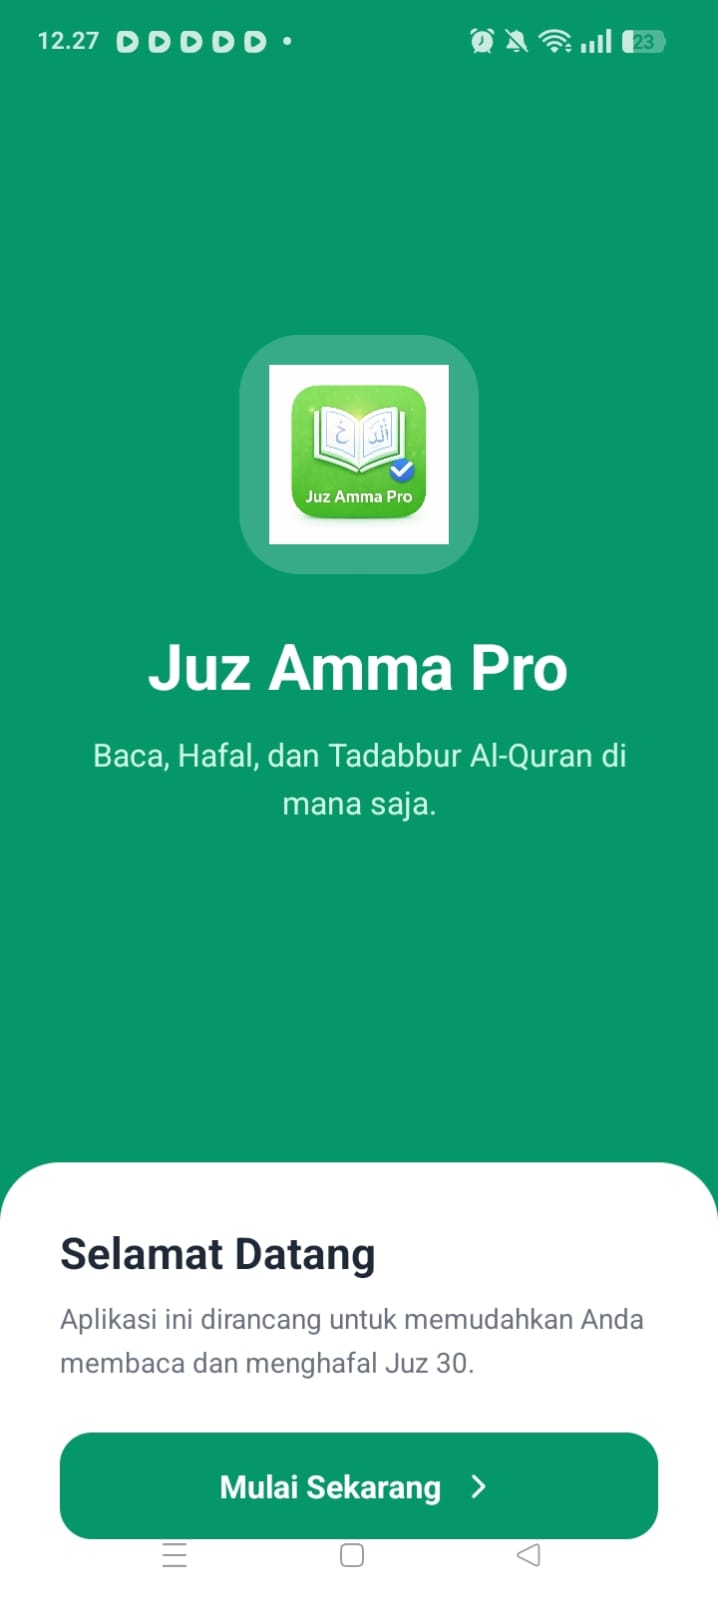
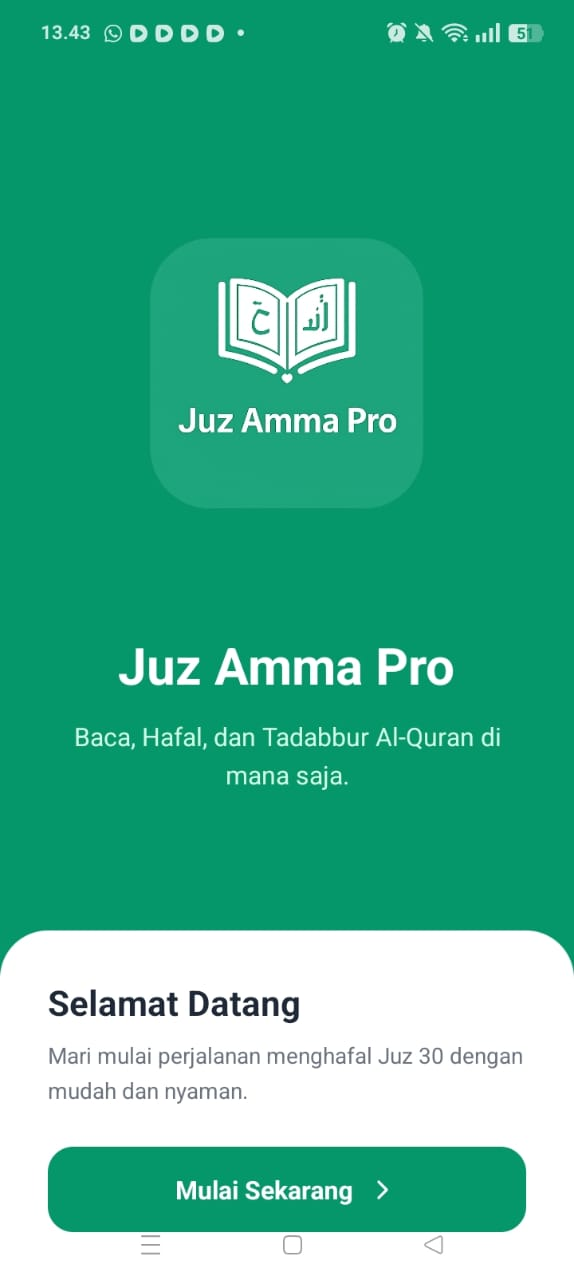
update

diff --git a/App.tsx b/App.tsx
@@ -32,6 +32,7 @@ import {
   X,
   LogOut,
   ChevronRight,
+  BookOpen,
 } from "lucide-react-native";
 
 // --- 1. TYPE DEFINITIONS ---
@@ -430,31 +431,34 @@ const AyahItem: React.FC<AyahItemProps> = ({
   );
 };
 
-// --- 4. WELCOME SCREEN COMPONENT ---
+// --- 4. WELCOME SCREEN (Halaman Awal) ---
 
 const WelcomeScreen = ({ onEnter }: { onEnter: () => void }) => {
   return (
+    // Background color sudah diset ke Emerald. Ganti hex code di sini jika ingin warna lain.
     <View style={[styles.authContainer, { backgroundColor: "#059669" }]}>
       <StatusBar barStyle="light-content" />
       <View style={styles.welcomeContent}>
-        {/* LOGO CUSTOM ANDA */}
+        {/* CONTAINER LOGO */}
         <View style={styles.logoContainer}>
           <Image
-            source={require("./assets/icon.png")}
+            // Menggunakan adaptive-icon.png sesuai request
+            source={require("./assets/adaptive-icon.png")}
             style={styles.logoImage}
             resizeMode="contain"
           />
         </View>
+
         <Text style={styles.welcomeTitle}>Juz Amma Pro</Text>
         <Text style={styles.welcomeSubtitle}>
           Baca, Hafal, dan Tadabbur Al-Quran di mana saja.
         </Text>
       </View>
+
       <View style={styles.bottomAuthCard}>
         <Text style={styles.authCardTitle}>Selamat Datang</Text>
         <Text style={styles.authCardDesc}>
-          Aplikasi ini dirancang untuk memudahkan Anda membaca dan menghafal Juz
-          30.
+          Mari mulai perjalanan menghafal Juz 30 dengan mudah dan nyaman.
         </Text>
         <TouchableOpacity style={styles.primaryBtn} onPress={onEnter}>
           <Text style={styles.primaryBtnText}>Mulai Sekarang</Text>
@@ -644,9 +648,9 @@ const MainApp = ({ onExit }: { onExit: () => void }) => {
         <View style={[styles.headerHome, { backgroundColor: theme.primary }]}>
           <View style={styles.headerTop}>
             <View>
-              <Text style={styles.appTitle}>Assalamu'alaikum</Text>
+              <Text style={styles.appTitle}>ASSALAMUALAIKUM</Text>
               <Text style={styles.appSubtitle}>
-                Sudahkah kamu mengaji hari ini?
+                Sudahkah Kamu Mengaji Hari Ini?
               </Text>
             </View>
             <TouchableOpacity
@@ -680,7 +684,7 @@ const MainApp = ({ onExit }: { onExit: () => void }) => {
                   activeTab === "all" ? { color: theme.primary } : null,
                 ]}
               >
-                Semua
+                Surah
               </Text>
             </TouchableOpacity>
             <TouchableOpacity
@@ -1088,20 +1092,17 @@ const styles = StyleSheet.create({
     alignItems: "center",
     paddingHorizontal: 30,
   },
+
+  // LOGO CONTAINER (Diperbesar)
   logoContainer: {
-    width: 120,
-    height: 120,
-    borderRadius: 30,
-    backgroundColor: "rgba(255,255,255,0.2)",
+    width: 300,
+    height: 300, // Ukuran container besar
     justifyContent: "center",
     alignItems: "center",
-    marginBottom: 24,
-    shadowColor: "#000",
-    shadowOffset: { width: 0, height: 4 },
-    shadowOpacity: 0.1,
-    shadowRadius: 5,
+    marginBottom: 10,
   },
-  logoImage: { width: 90, height: 90 },
+
+  logoImage: { width: 280, height: 280 }, // Ukuran gambar logo besar
   welcomeTitle: {
     fontSize: 32,
     fontWeight: "bold",
